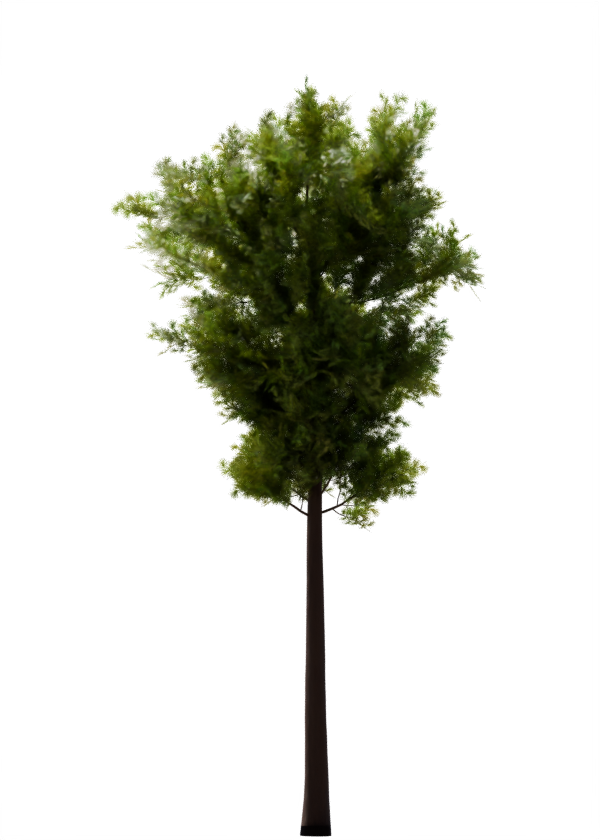
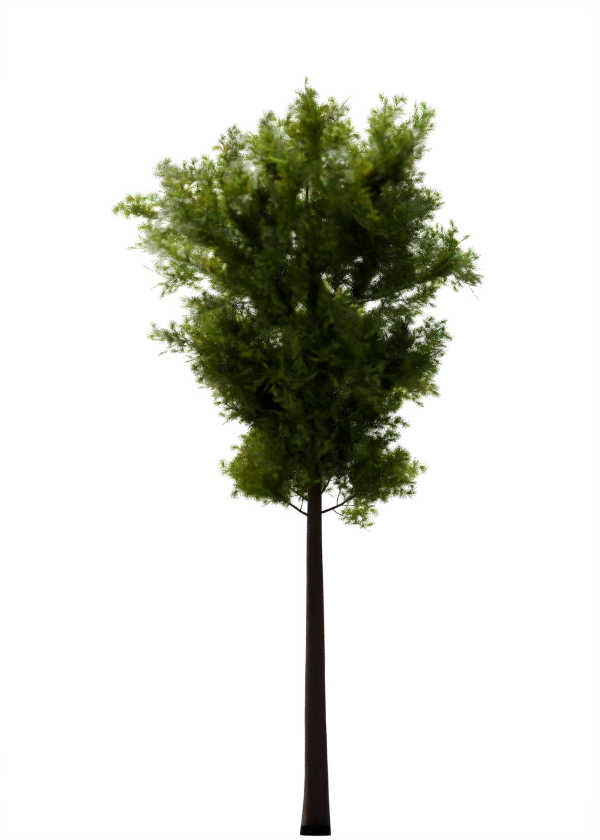
TASK 06 M1: handoff clone branch + render progress
Claude-Session: https://claude.ai/code/session_011k3RWwRxjGMSHLxijMVYzW

diff --git a/HANDOFF.md b/HANDOFF.md
@@ -19,7 +19,7 @@
    Ye karta hai: Blender 5.3 module (`pip install bpy scipy`) · **Blender 4.5.16 LTS** module in `$SCRATCH/bpy45`
    (`uv venv -p /usr/bin/python3.11` + `bpy>=4.5,<4.6`) · Mesa EGL (Workbench viewport renders) · Poly Haven fetch · Task 04 baseline
    checksum check. Uske baad: `BPY45=$SCRATCH/bpy45/bin/python`, viewport renders ke liye `EGL_PLATFORM=surfaceless`.
-4. Director ke PC par files: GitHub → branch → *Download ZIP* ya `git clone -b ccr-a129fdfc-g3v4k0 https://github.com/pratyushgamerz54-oss/animation-studio.git`.
+4. Director ke PC par files: GitHub → branch → *Download ZIP* ya `git clone -b ccr-c375d59d-2qaoyn https://github.com/pratyushgamerz54-oss/animation-studio.git`.
    **Director ka PC = Blender 4.5** (Task 04 se saari world files 4.5 se banti hain; character/Ashram v3 files 5.3 ki hain).
 
 ### PROMPT (nayi session mein paste karo)
